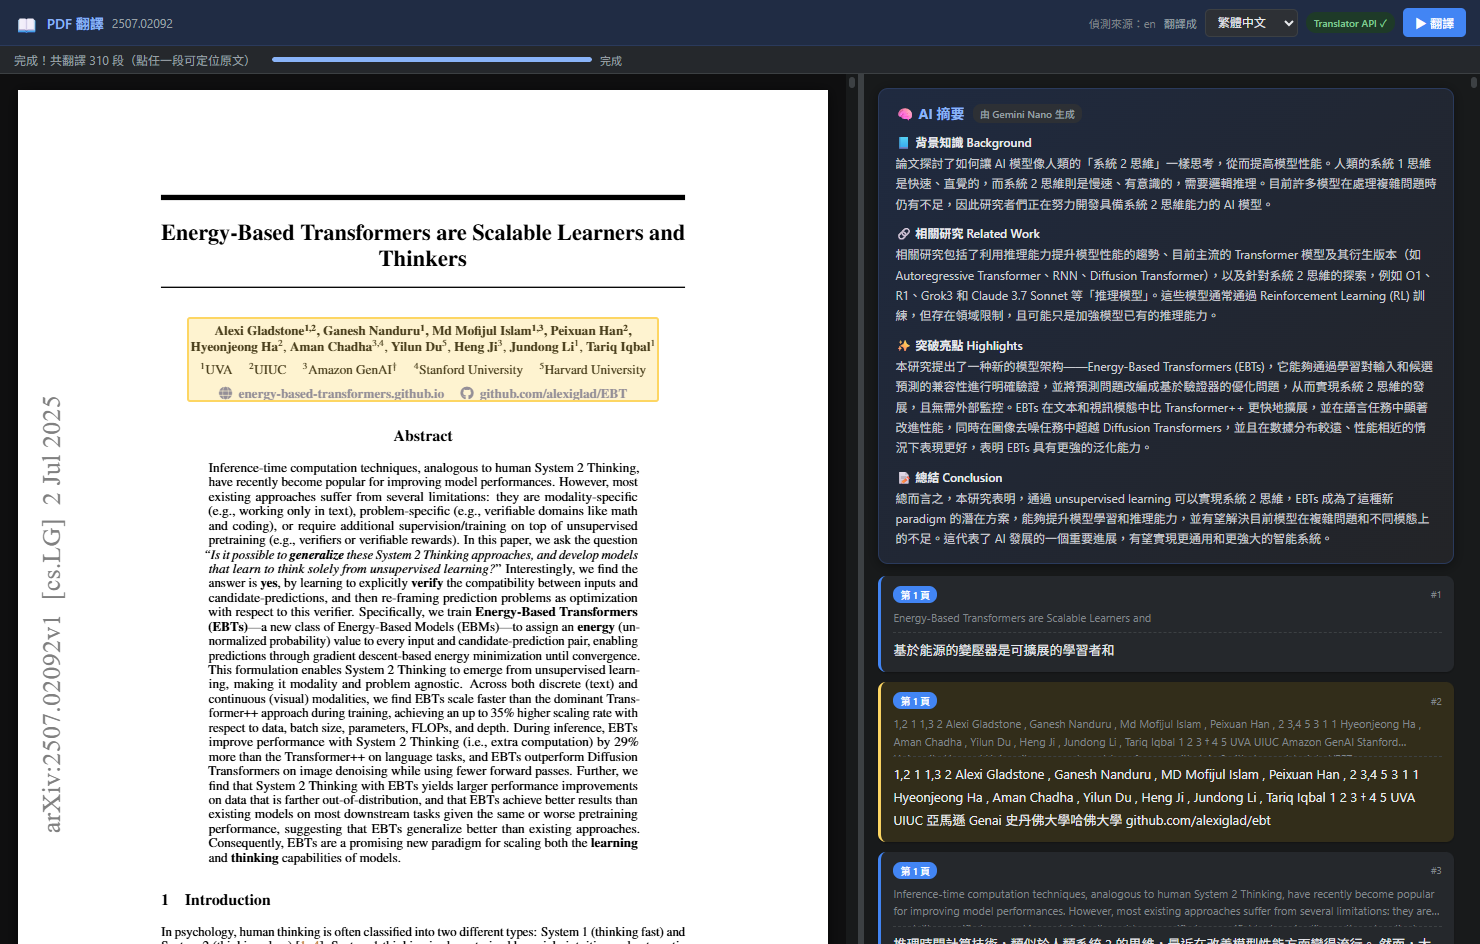
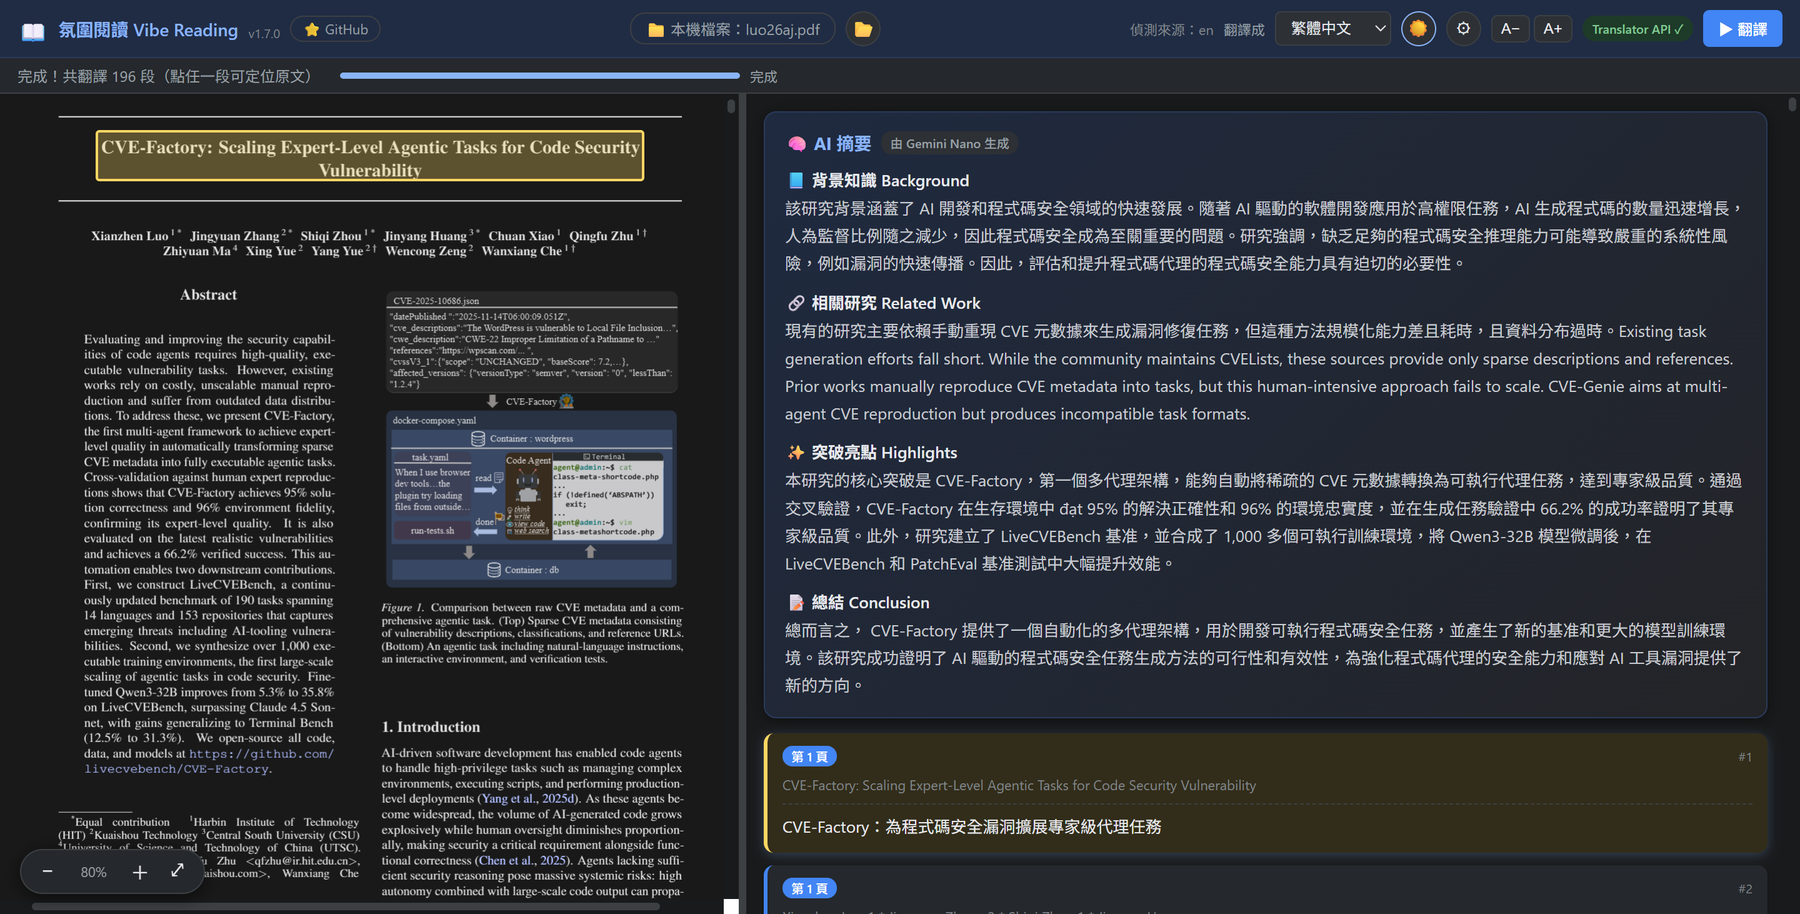
更新 README 介面預覽圖，新增反白問 AI 截圖

diff --git a/README.md b/README.md
@@ -11,6 +11,8 @@
 
 ![氛圍閱讀 Vibe Reading 介面預覽](preview.png)
 
+![在論文中反白文字，直接問 Gemini Nano](ask-ai.png)
+
 ### 🎬 Demo
 
 ![氛圍閱讀 Vibe Reading Demo](demo.gif)
